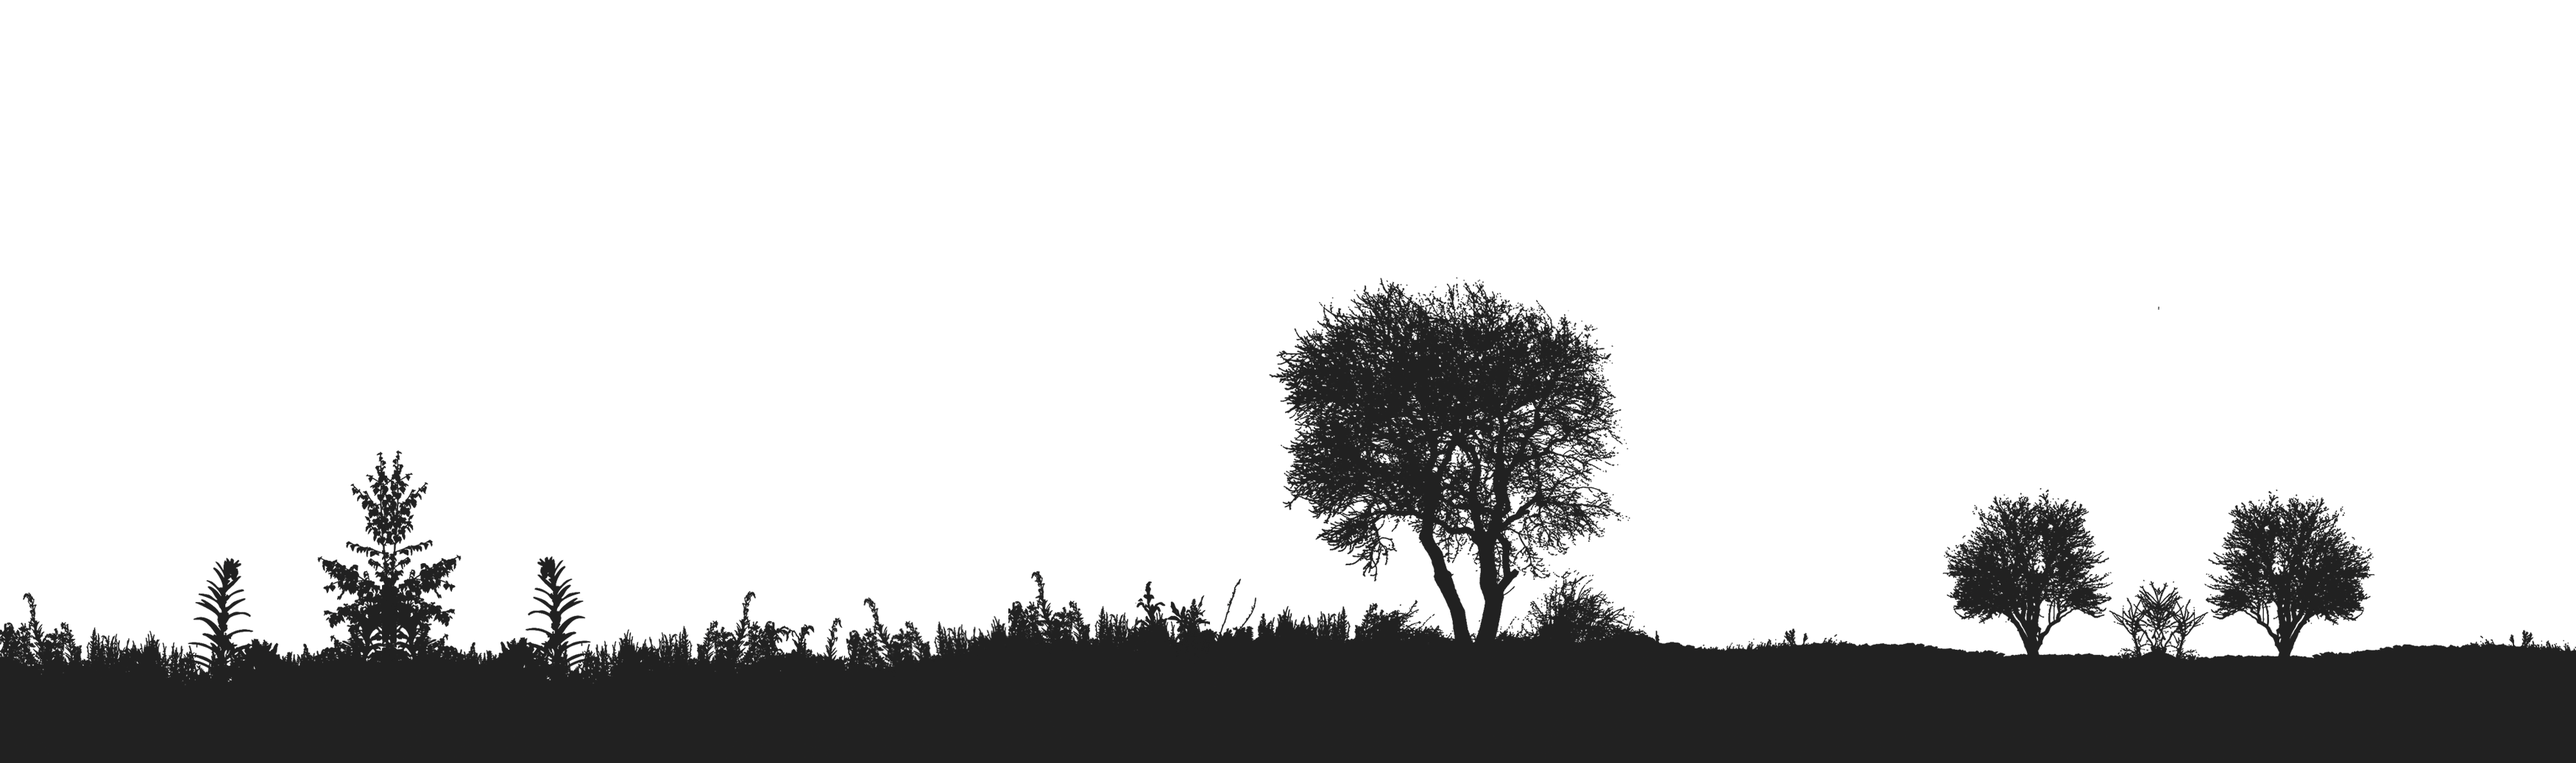
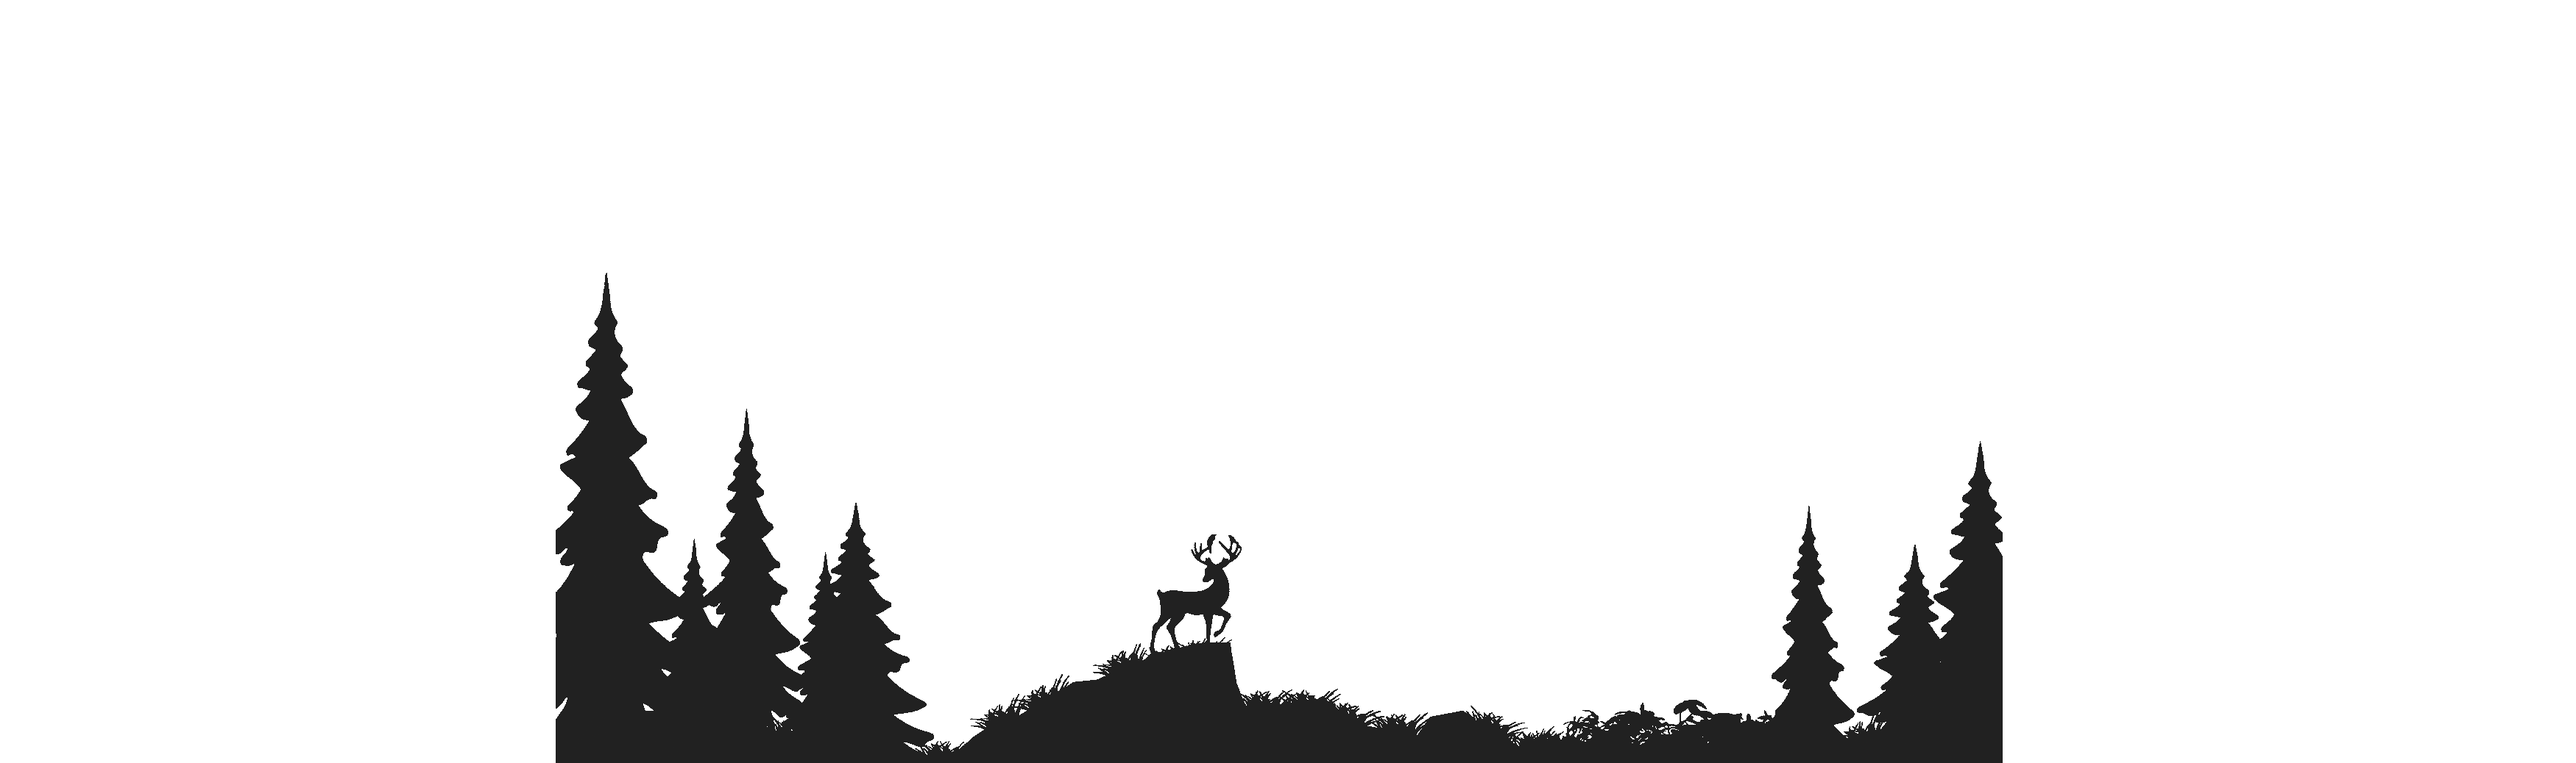
Parallax art, homepage content

Changed region(s): [[0.0, 0.3699, 1.0, 1.0]]

diff --git a/index.html b/index.html
@@ -52,28 +52,55 @@
 
     <!-- Parallax -->
     <div class="keyart" id="parallax">
-      <div class="keyart_layer" id="keyart-5" data-speed="100"></div>
+      <div class="keyart_layer parallax" id="keyart-0" data-speed="10" style="transform: translate3d(0px, 0px, 0px)"></div>
+      <div class="keyart_layer parallax" id="keyart-2" data-speed="20" style="transform: translate3d(0px, 0px, 0px)"></div>
+      <div class="keyart_layer parallax" id="keyart-3" data-speed="60" style="transform: translate3d(0px, 0px, 0px)"></div>
+      <div class="keyart_layer parallax" id="keyart-4" data-speed="80" style="transform: translate3d(0px, 0px, 0px)"></div>
+      <div class="keyart_layer" id="keyart-5" data-speed="100" style="transform: translate3d(0px, 0px, 0px)"></div>
     </div>
 
     <!-- Main -->
     <div id="content">
-      <p>Lorem ipsum dolor sit amet, consectetur adipisicing elit, sed do eiusmod tempor incididunt ut labore et dolore magna aliqua. Ut enim ad minim veniam, quis nostrud exercitation ullamco laboris nisi ut aliquip ex ea commodo consequat. Duis
-        aute irure dolor in reprehenderit in voluptate velit esse cillum dolore eu fugiat nulla pariatur. Excepteur sint occaecat cupidatat non proident, sunt in culpa qui officia deserunt mollit anim id est laborum.</p>
-      <p>Lorem ipsum dolor sit amet, consectetur adipisicing elit, sed do eiusmod tempor incididunt ut labore et dolore magna aliqua. Ut enim ad minim veniam, quis nostrud exercitation ullamco laboris nisi ut aliquip ex ea commodo consequat. Duis
-        aute irure dolor in reprehenderit in voluptate velit esse cillum dolore eu fugiat nulla pariatur. Excepteur sint occaecat cupidatat non proident, sunt in culpa qui officia deserunt mollit anim id est laborum.</p>
-      <p>Lorem ipsum dolor sit amet, consectetur adipisicing elit, sed do eiusmod tempor incididunt ut labore et dolore magna aliqua. Ut enim ad minim veniam, quis nostrud exercitation ullamco laboris nisi ut aliquip ex ea commodo consequat. Duis
-        aute irure dolor in reprehenderit in voluptate velit esse cillum dolore eu fugiat nulla pariatur. Excepteur sint occaecat cupidatat non proident, sunt in culpa qui officia deserunt mollit anim id est laborum.</p>
-      <p>Lorem ipsum dolor sit amet, consectetur adipisicing elit, sed do eiusmod tempor incididunt ut labore et dolore magna aliqua. Ut enim ad minim veniam, quis nostrud exercitation ullamco laboris nisi ut aliquip ex ea commodo consequat. Duis
-        aute irure dolor in reprehenderit in voluptate velit esse cillum dolore eu fugiat nulla pariatur. Excepteur sint occaecat cupidatat non proident, sunt in culpa qui officia deserunt mollit anim id est laborum.</p>
-    </div>
+      <div class="section">
+        <h2>Download coming soon.</h2>
+        <h2>Gameplay footage coming soon.</h2>
+      </div>
 
-    <!-- Scripts -->
-    <!-- jQuery first, then Popper.js, then Bootstrap JS -->
-    <script src="https://code.jquery.com/jquery-3.3.1.slim.min.js" integrity="sha384-q8i/X+965DzO0rT7abK41JStQIAqVgRVzpbzo5smXKp4YfRvH+8abtTE1Pi6jizo" crossorigin="anonymous"></script>
-    <script src="https://cdnjs.cloudflare.com/ajax/libs/popper.js/1.14.3/umd/popper.min.js" integrity="sha384-ZMP7rVo3mIykV+2+9J3UJ46jBk0WLaUAdn689aCwoqbBJiSnjAK/l8WvCWPIPm49" crossorigin="anonymous"></script>
-    <script src="https://stackpath.bootstrapcdn.com/bootstrap/4.1.3/js/bootstrap.min.js" integrity="sha384-ChfqqxuZUCnJSK3+MXmPNIyE6ZbWh2IMqE241rYiqJxyMiZ6OW/JmZQ5stwEULTy" crossorigin="anonymous"></script>
-    <!-- Other -->
-    <script src="js/scripts.js"></script>
+      <div class="section description">
+        <h5>
+          'They Listen' is set in a post apocalyptic world where humanity has been invaded
+          by sightless creatres of unknown origin. These creatures are able to detect you through sound
+          and echolocation.
+        </h5>
+      </div>
+
+      <div class="section extraDescription">
+        <div class="row">
+          <div class="col-sm-6">
+            <p>A father is looking for his missing daughter while being chased by a creature
+              that can temporarily take away his sight.</p>
+            <p>While being chased he runs to an old house where
+              he thinks his daughter is hiding and begins to explore the house for clues to his daughter's whereabouts.</p>
+          </div>
+          <div class="col-sm-6">
+            <p>The father must be quiet in order to remain hidden from the mysterious creature. While in proximity to the creature the player loses sight and must rely on echolocation
+              to navigate around the house and hide from the creatures.</p>
+            <p>Do not make a sound, or else...</p>
+          </div>
+        </div>
+      </div>
+
+      <div class="section">
+        <h2>Screenshots coming soon.</h2>
+      </div>
+
+      <!-- Scripts -->
+      <!-- jQuery first, then Popper.js, then Bootstrap JS -->
+      <script src="https://code.jquery.com/jquery-3.3.1.slim.min.js" integrity="sha384-q8i/X+965DzO0rT7abK41JStQIAqVgRVzpbzo5smXKp4YfRvH+8abtTE1Pi6jizo" crossorigin="anonymous"></script>
+      <script src="https://cdnjs.cloudflare.com/ajax/libs/popper.js/1.14.3/umd/popper.min.js" integrity="sha384-ZMP7rVo3mIykV+2+9J3UJ46jBk0WLaUAdn689aCwoqbBJiSnjAK/l8WvCWPIPm49" crossorigin="anonymous"></script>
+      <script src="https://stackpath.bootstrapcdn.com/bootstrap/4.1.3/js/bootstrap.min.js" integrity="sha384-ChfqqxuZUCnJSK3+MXmPNIyE6ZbWh2IMqE241rYiqJxyMiZ6OW/JmZQ5stwEULTy" crossorigin="anonymous"></script>
+      <!-- Other -->
+      <script src="js/scripts.js"></script>
   </body>
 
 </html>

diff --git a/css/desktop.css b/css/desktop.css
@@ -23,6 +23,8 @@
 body {
   font-family: sans-serif;
   color: #F2F2F2;
+  background-color: #000a12;
+  font-family: sans-serif;
 }
 
 
@@ -105,6 +107,40 @@ body {
 	position: fixed;
 }
 
+#keyart-0 {
+  background-color: #000a12;
+  background-image: url('../resources/img/parallax0.png')
+}
+#keyart-2 {
+  background-image: url('../resources/img/parallax2.png')
+}
+#keyart-3 {
+  background-image: url('../resources/img/parallax3.png')
+}
+#keyart-4 {
+  background-image: url('../resources/img/parallax4.png')
+}
 #keyart-5 {
   background-image: url('../resources/img/parallax5.png');
+}
+
+h2 {
+  font-weight: bold;
+  text-align: center;
+}
+
+h5 {
+  font-weight: bold;
+  margin-top: 30px;
+  margin-right: 30%;
+  margin-left: 30%;
+  line-height: 1.5em
+}
+
+.extraDescription {
+  margin-top: 30px;
+  margin-left: 30%;
+  margin-right: 30%;
+  line-height: 1.6em;
+  font-size: 1rem;
 }

diff --git a/js/scripts.js b/js/scripts.js
@@ -1,6 +1,6 @@
 function castParallax() {
 
-  */
+
   window.addEventListener("scroll", function(event) {
 
     var top = this.pageYOffset;
